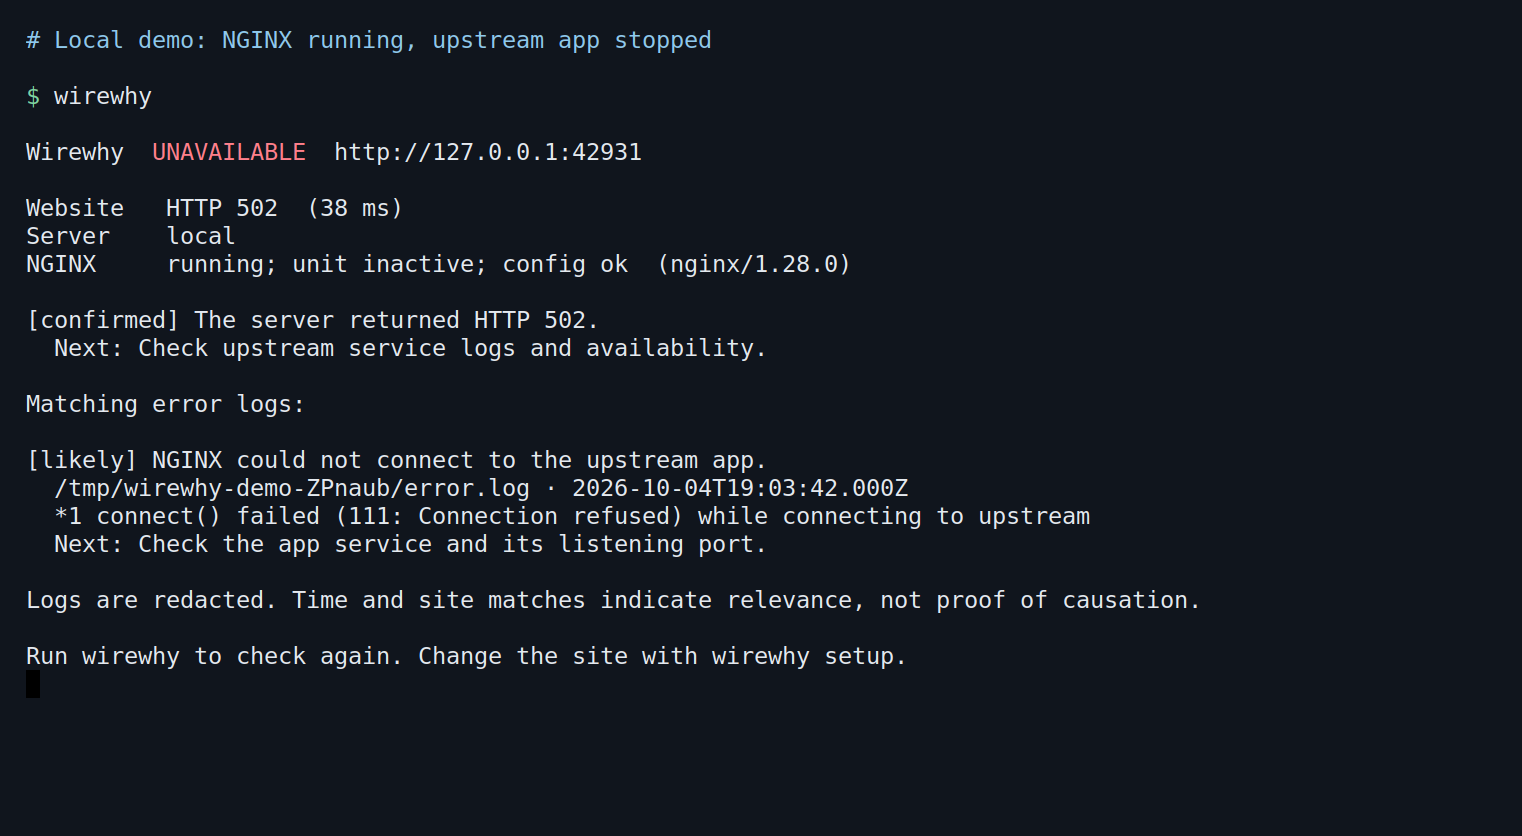
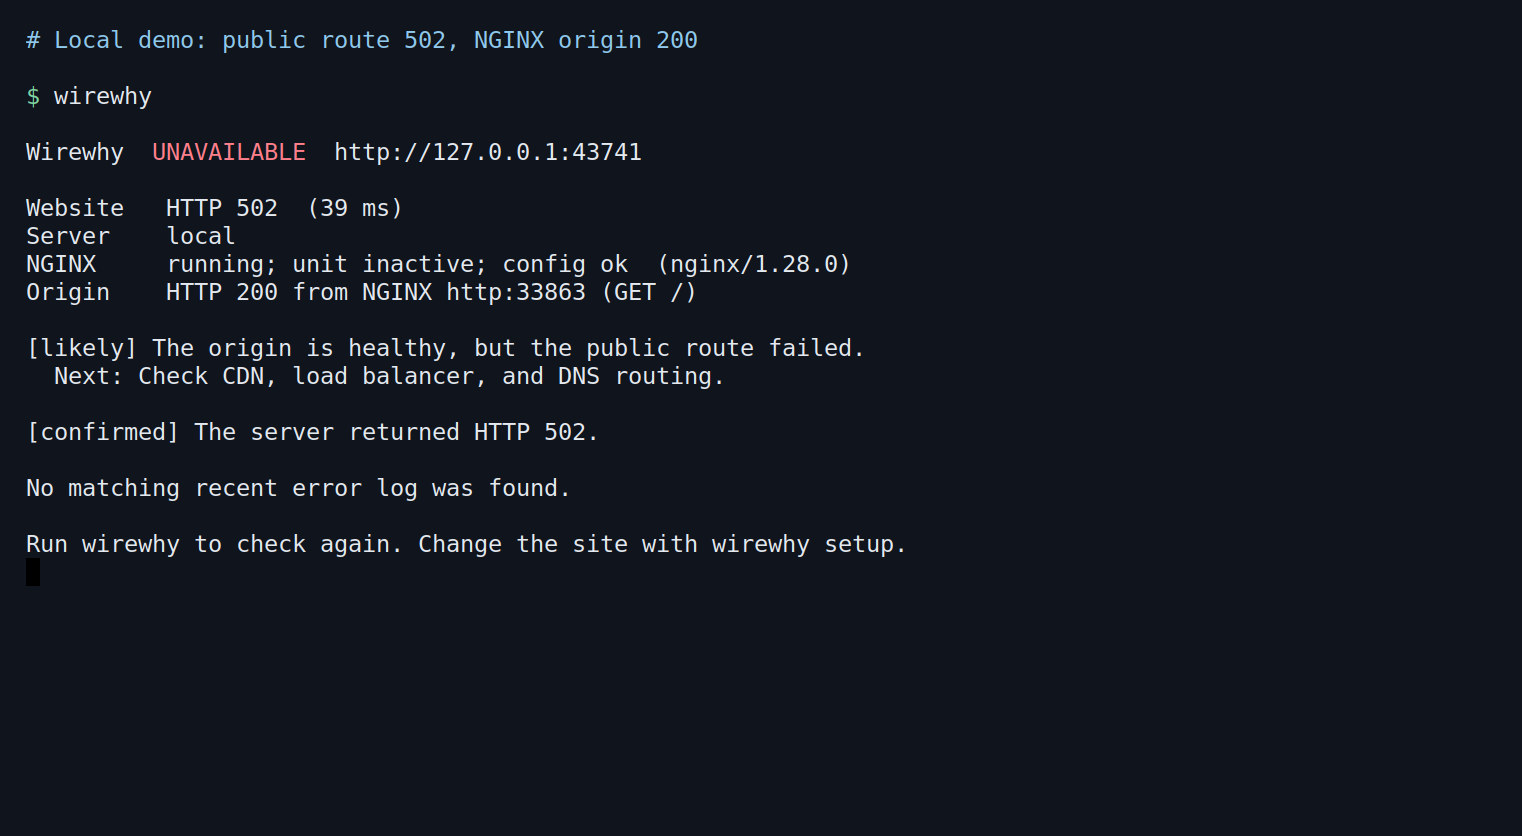
Add direct NGINX origin outage comparison

diff --git a/test/site.test.js b/test/site.test.js
@@ -48,6 +48,20 @@ test('text output highlights the matching NGINX error without repeated access-lo
   assert.match(output, /Connection refused/);
   assert.doesNotMatch(output, /diagnostic request|client:|private-path|192\.0\.2\.1/);
 });
+test('origin comparison leads the next step when public HTTP fails but NGINX is healthy', () => {
+  const report = {
+    availability: 'unavailable', outcome: 'failed', url: 'https://example.com', complete: true,
+    website: {request: {status: 502, durationMs: 43}, findings: [{confidence: 'confirmed', summary: 'The server returned HTTP 502.', nextSteps: ['Check the upstream service.']}]},
+    server: {location: 'production', nginx: {installed: true, process: 'running', service: 'active', config: 'ok', siteMatched: true}, origin: {checked: true, scheme: 'https', port: 443, status: 200}, app: null, issues: []},
+    logs: []
+  };
+  const output = formatSiteReport(report);
+  assert.match(output, /Website\s+HTTP 502/);
+  assert.match(output, /Origin\s+HTTP 200 from NGINX https:443 \(GET \/, TLS verified\)/);
+  assert.match(output, /The origin is healthy, but the public route failed/);
+  assert.match(output, /Check CDN, load balancer, and DNS routing/);
+  assert.doesNotMatch(output, /Check the upstream service/);
+});
 test('a saved site makes the bare command check immediately without prompting', async t => {
   const app = await server((req, res) => res.end());
   t.after(app.close);
@@ -186,4 +200,38 @@ test('real isolated NGINX outage exposes its actual upstream error log', { skip:
   assert.equal(matched.source, errorLog);
   assert.ok(matched.excerpt.includes('connect() failed'));
   assert.ok(readFileSync(errorLog, 'utf8').includes('Connection refused'));
+});
+
+test('origin check separates a failing public route from a healthy real NGINX origin', { skip: !process.env.WIREWHY_NGINX_BINARY, timeout: 20000 }, async t => {
+  const directory = mkdtempSync(join(tmpdir(), 'wirewhy-origin-nginx-'));
+  t.after(() => rmSync(directory, { recursive: true, force: true }));
+  const reserve = await server((req, res) => res.end());
+  const originPort = reserve.app.address().port;
+  await reserve.close();
+  const publicRoute = await server((req, res) => { res.writeHead(502); res.end('Bad gateway'); });
+  t.after(publicRoute.close);
+  const upstream = await server((req, res) => res.end('healthy origin'));
+  t.after(upstream.close);
+  const upstreamPort = upstream.app.address().port;
+  const configPath = join(directory, 'nginx.conf');
+  writeFileSync(configPath, `pid ${directory}/nginx.pid; error_log ${directory}/error.log; worker_processes 1; events { worker_connections 32; } http { client_body_temp_path ${directory}/body; proxy_temp_path ${directory}/proxy; fastcgi_temp_path ${directory}/fastcgi; uwsgi_temp_path ${directory}/uwsgi; scgi_temp_path ${directory}/scgi; access_log ${directory}/access.log; server { listen 127.0.0.1:${originPort}; server_name 127.0.0.1; location / { proxy_pass http://127.0.0.1:${upstreamPort}; } } }`);
+  const child = spawn(process.env.WIREWHY_NGINX_BINARY, ['-c', configPath, '-e', 'stderr', '-g', 'daemon off;'], { stdio: ['ignore', 'ignore', 'pipe'] });
+  let stderr = '';
+  child.stderr.on('data', data => stderr += data);
+  t.after(async () => { if (child.exitCode === null) { child.kill('SIGTERM'); await new Promise(resolve => child.once('close', resolve)); } });
+  let ready = false;
+  for (let i = 0; i < 30 && !ready; i++) {
+    try { ready = (await (await fetch(`http://127.0.0.1:${originPort}`)).text()) === 'healthy origin'; } catch { await delay(50); }
+  }
+  assert.ok(ready, stderr);
+  const bin = join(directory, 'bin'); mkdirSync(bin);
+  writeFileSync(join(bin, 'nginx'), `#!/usr/bin/env node\nconst r=require('node:child_process').spawnSync(process.env.WIREWHY_NGINX_BINARY,process.argv.slice(2),{stdio:'inherit'}); process.exit(r.status||0);\n`, { mode: 0o755 });
+  const url = new URL(publicRoute.url);
+  const env = { PATH: `${bin}:${process.env.PATH}`, WIREWHY_CONFIG: join(directory, 'none.json'), WIREWHY_NGINX_BINARY: process.env.WIREWHY_NGINX_BINARY };
+  const result = await run(['site', url.href, '--local', '--nginx-config', configPath], env);
+  assert.equal(result.code, 1, result.stderr);
+  assert.match(result.stdout, /Website\s+HTTP 502/);
+  assert.match(result.stdout, /Origin\s+HTTP 200/);
+  assert.match(result.stdout, /The origin is healthy, but the public route failed/);
+  assert.match(result.stdout, /Check CDN, load balancer, and DNS routing/);
 });

diff --git a/src/site.js b/src/site.js
@@ -26,12 +26,13 @@ async function inspectSite(input, options = {}) {
   let logs = { entries: [], issues: [] };
   if (options.ssh || options.local) {
     options.onProgress?.(availability === 'unavailable' || options.includeLogs ? 'Checking NGINX and recent site logs' : 'Checking NGINX health');
-    const raw = await collectServer(url, { ...options, collectLogs: availability === 'unavailable' || options.includeLogs });
+    const raw = await collectServer(url, { ...options, originCheck: availability === 'unavailable', originScheme: url.protocol, collectLogs: availability === 'unavailable' || options.includeLogs });
     logs = analyzeLogs(raw, url, probeId);
     server = {
       location: options.ssh || 'local',
       error: raw.error || null,
       nginx: raw.nginx ? { ...raw.nginx, configError: raw.nginx.configError ? redactLog(raw.nginx.configError) : null } : null,
+      origin: raw.origin || null,
       app: raw.app || null,
       issues: [...(raw.issues || []), ...logs.issues]
     };
@@ -64,10 +65,27 @@ function formatSiteReport(report, format = 'text', color = false) {
       if (report.server.app) lines.push(`App       ${report.server.app.service}: ${report.server.app.state}${report.server.app.discovered ? ' (discovered from the upstream port)' : ''}`);
       if (!nginx.siteMatched) lines.push('Site      No matching server_name found in the inspected config.');
     }
+    const origin = report.server.origin;
+    if (origin?.status !== undefined && origin?.status !== null) lines.push(`Origin    HTTP ${origin.status} from NGINX ${origin.scheme}:${origin.port} (GET /${origin.scheme === 'https' ? ', TLS verified' : ''})`);
+    else if (origin?.error) {
+      const detail = origin.error === 'ORIGIN_CERT_HOSTNAME' ? 'TLS certificate hostname mismatch'
+        : origin.error === 'ORIGIN_CERT_INVALID' ? 'TLS certificate is not trusted'
+          : origin.error === 'ORIGIN_TLS_FAILED' ? 'TLS handshake failed'
+            : origin.error === 'ORIGIN_TIMEOUT' ? 'Timed out'
+              : origin.error === 'ORIGIN_CONNECTION_REFUSED' ? 'Connection refused' : 'No HTTP response';
+      lines.push(`Origin    ${detail} via NGINX ${origin.scheme}:${origin.port}`);
+    } else if (origin && !origin.checked) lines.push(`Origin    Not checked: ${origin.reason}`);
+    if (origin?.status !== undefined && origin?.status !== null && report.availability === 'unavailable') {
+      lines.push('', origin.status < 400 ? '[likely] The origin is healthy, but the public route failed.'
+        : origin.status >= 500 ? `[likely] The origin also returned HTTP ${origin.status}.`
+          : `[possible] The origin answered HTTP ${origin.status} directly.`,
+      `  Next: ${origin.status < 400 ? 'Check CDN, load balancer, and DNS routing.' : 'Check origin access rules and NGINX/app logs.'}`);
+    }
   }
   for (const finding of report.website.findings) {
     lines.push('', `[${finding.confidence}] ${finding.summary}`);
-    if (finding.nextSteps[0]) lines.push(`  Next: ${finding.nextSteps[0]}`);
+    const originIsHealthy = report.server?.origin?.status < 400 && report.website.request.status >= 500;
+    if (finding.nextSteps[0] && !originIsHealthy) lines.push(`  Next: ${finding.nextSteps[0]}`);
   }
   if (report.logs.length) {
     const displayLogs = report.logs.filter(entry => entry.code !== 'http.probe' || report.logs.length === 1);

diff --git a/src/server.js b/src/server.js
@@ -20,7 +20,7 @@ function validateServerOptions(options = {}) {
 function collectServer(input, options = {}) {
   validateServerOptions(options);
   const url = new URL(String(input));
-  const payload = Buffer.from(JSON.stringify({ hostname: url.hostname.toLowerCase(), service: options.service, discoveredService: options.discoveredService, logs: options.logs, collectLogs: options.collectLogs, nginxConfig: options.nginxConfig })).toString('base64');
+  const payload = Buffer.from(JSON.stringify({ hostname: url.hostname.toLowerCase(), service: options.service, discoveredService: options.discoveredService, logs: options.logs, collectLogs: options.collectLogs, nginxConfig: options.nginxConfig, originCheck: options.originCheck, originScheme: options.originScheme, probeId: options.probeId })).toString('base64');
   const script = readFileSync(join(__dirname, 'server-collector.py'));
   let command;
   let args;

diff --git a/src/index.d.ts b/src/index.d.ts
@@ -91,6 +91,7 @@ export interface SiteReport {
     location: string;
     error: string | null;
     nginx: null | { installed: boolean; version: string | null; service: string; process: string; config: string; configError: string | null; siteMatched: boolean };
+    origin: null | { checked: boolean; reason?: string; scheme?: 'http' | 'https'; port?: number; status?: number | null; durationMs?: number; error?: string | null };
     app: null | { service: string; state: string; discovered: boolean };
     issues: string[];
   };

diff --git a/src/server-collector.py b/src/server-collector.py
@@ -2,14 +2,19 @@
 import base64
 import concurrent.futures
 import datetime
+import http.client
+import ipaddress
 import json
 import os
 import re
 import shlex
 import shutil
+import socket
+import ssl
 import stat
 import subprocess
 import sys
+import time
 from urllib.parse import urlsplit
 
 
@@ -89,6 +94,7 @@ def discover(text, host, prefix):
                  for directive in node["directives"] if directive[0] in ("error_log", "access_log")]
     logs = []
     upstreams = []
+    origin_listeners = []
     for node in matches:
         for kind in ("error_log", "access_log"):
             own = [directive for directive in node["directives"] if directive[0] == kind]
@@ -101,6 +107,13 @@ def discover(text, host, prefix):
                     continue
                 path = directive[1] if os.path.isabs(directive[1]) else os.path.join(prefix, directive[1])
                 logs.append({"path": path, "kind": "nginx-error" if kind == "error_log" else "nginx-access", "siteScoped": scoped})
+        listens = [directive[1:] for directive in node["directives"] if directive[0] == "listen" and len(directive) > 1]
+        if not listens:
+            listens = [["80"]]
+        for args in listens:
+            endpoint = parse_listener(args)
+            if endpoint and endpoint not in origin_listeners:
+                origin_listeners.append(endpoint)
     named = {node["args"][0]: [directive[1] for directive in node["directives"] if directive[0] == "server" and len(directive) > 1]
              for node in walk(tree) if node["name"] == "upstream" and node.get("args")}
     for node in matches:
@@ -110,7 +123,96 @@ def discover(text, host, prefix):
                     value = directive[1]
                     name = urlsplit(value).hostname if "://" in value else value
                     upstreams.extend(named.get(name, [value]))
-    return {"matched": bool(matches), "logs": logs, "upstreams": upstreams}
+    return {"matched": bool(matches), "logs": logs, "upstreams": upstreams, "originListeners": origin_listeners}
+
+
+def parse_listener(args):
+    if "udp" in args or "quic" in args:
+        return None
+    value = args[0]
+    if value.startswith("unix:"):
+        return None
+    address, port = "127.0.0.1", None
+    if value.startswith("[") and "]" in value:
+        address = value[1:value.index("]")]
+        suffix = value[value.index("]") + 1:]
+        port = suffix[1:] if suffix.startswith(":") else None
+    elif value.count(":") == 1:
+        host, candidate = value.rsplit(":", 1)
+        if candidate.isdigit():
+            address, port = host, candidate
+    elif value.isdigit():
+        port = value
+    if address in ("", "*", "0.0.0.0"):
+        address = "127.0.0.1"
+    elif address == "::":
+        address = "::1"
+    elif address == "localhost":
+        address = "127.0.0.1"
+    try:
+        if not ipaddress.ip_address(address).is_loopback:
+            return None
+    except ValueError:
+        return None
+    secure = "ssl" in args or port == "443"
+    port = int(port or ("443" if secure else "80"))
+    if not 1 <= port <= 65535:
+        return None
+    return {"address": address, "port": port, "scheme": "https" if secure else "http"}
+
+
+class OriginHTTPSConnection(http.client.HTTPSConnection):
+    def __init__(self, address, port, hostname, timeout):
+        super().__init__(address, port, timeout=timeout, context=ssl.create_default_context())
+        self.tls_hostname = hostname
+
+    def connect(self):
+        sock = socket.create_connection((self.host, self.port), self.timeout, self.source_address)
+        if self._tunnel_host:
+            self._tunnel()
+        self.sock = self._context.wrap_socket(sock, server_hostname=self.tls_hostname)
+
+
+def probe_origin(hostname, listeners, probe_id, prefer_tls):
+    if not listeners:
+        return {"checked": False, "reason": "No matching local NGINX listener was found."}
+    preferred_scheme = "https" if prefer_tls else "http"
+    candidates = sorted(listeners, key=lambda item: (item["scheme"] != preferred_scheme, item["address"] != "127.0.0.1"))[:4]
+    failure = None
+    failed_endpoint = candidates[0]
+    for endpoint in candidates:
+        started = time.monotonic()
+        connection = None
+        try:
+            if endpoint["scheme"] == "https":
+                connection = OriginHTTPSConnection(endpoint["address"], endpoint["port"], hostname, 3)
+            else:
+                connection = http.client.HTTPConnection(endpoint["address"], endpoint["port"], timeout=3)
+            connection.request("GET", "/", headers={"Host": hostname, "User-Agent": "Wirewhy origin check", "X-Wirewhy-Check": probe_id})
+            response = connection.getresponse()
+            response.read(65536)
+            return {"checked": True, "scheme": endpoint["scheme"], "port": endpoint["port"], "status": response.status,
+                    "durationMs": round((time.monotonic() - started) * 1000), "error": None}
+        except ssl.SSLCertVerificationError as error:
+            message = getattr(error, "verify_message", "").lower()
+            code = "ORIGIN_CERT_HOSTNAME" if "hostname" in message or "ip address mismatch" in message else "ORIGIN_CERT_INVALID"
+            return {"checked": True, "scheme": endpoint["scheme"], "port": endpoint["port"], "status": None,
+                    "durationMs": round((time.monotonic() - started) * 1000), "error": code}
+        except ssl.SSLError:
+            failure = "ORIGIN_TLS_FAILED"
+        except (socket.timeout, TimeoutError):
+            failure = "ORIGIN_TIMEOUT"
+        except OSError as error:
+            failure = "ORIGIN_CONNECTION_REFUSED" if error.errno in (111, 61, 10061) else "ORIGIN_UNREACHABLE"
+        except http.client.HTTPException:
+            failure = "ORIGIN_BAD_RESPONSE"
+        finally:
+            if connection:
+                connection.close()
+        failed_endpoint = endpoint
+    endpoint = failed_endpoint
+    return {"checked": True, "scheme": endpoint["scheme"], "port": endpoint["port"], "status": None,
+            "durationMs": 0, "error": failure or "ORIGIN_UNREACHABLE"}
 
 
 def tail_file(path):
@@ -183,6 +285,8 @@ def collect(options):
             prefix = match.group(1).strip("'\"")
     discovered = discover(config["stdout"], options["hostname"], prefix)
     output["nginx"]["siteMatched"] = discovered["matched"]
+    if options.get("originCheck"):
+        output["origin"] = probe_origin(options["hostname"], discovered["originListeners"], options.get("probeId", "wirewhy"), options.get("originScheme") == "https")
     service = options.get("service") or auto_service(discovered["upstreams"]) or options.get("discoveredService")
     if service:
         output["app"] = {"service": service, "state": state(command(["systemctl", "is-active", service])), "discovered": not bool(options.get("service"))}

diff --git a/test/collector_test.py b/test/collector_test.py
@@ -1,8 +1,11 @@
 import importlib.util
+from http.server import BaseHTTPRequestHandler, ThreadingHTTPServer
 import os
 from pathlib import Path
+import ssl
 import tempfile
 import unittest
+import threading
 from unittest.mock import patch
 
 spec = importlib.util.spec_from_file_location("collector", Path(__file__).resolve().parents[1] / "src/server-collector.py")
@@ -11,6 +14,66 @@ spec.loader.exec_module(collector)
 
 
 class CollectorTests(unittest.TestCase):
+    def test_origin_probe_uses_host_root_and_probe_id(self):
+        observed = {}
+        class Handler(BaseHTTPRequestHandler):
+            def do_GET(self):
+                observed.update(path=self.path, host=self.headers.get("Host"), probe=self.headers.get("X-Wirewhy-Check"))
+                self.send_response(200)
+                self.end_headers()
+                self.wfile.write(b"ok")
+            def log_message(self, *_args):
+                pass
+
+        server = ThreadingHTTPServer(("127.0.0.1", 0), Handler)
+        thread = threading.Thread(target=server.serve_forever, daemon=True)
+        thread.start()
+        try:
+            result = collector.probe_origin("example.com", [{"address": "127.0.0.1", "port": server.server_port, "scheme": "http"}], "wirewhy-test", False)
+        finally:
+            server.shutdown()
+            server.server_close()
+            thread.join()
+        self.assertEqual(result["status"], 200)
+        self.assertEqual(observed, {"path": "/", "host": "example.com", "probe": "wirewhy-test"})
+
+    def test_https_origin_probe_preserves_hostname_for_host_and_sni(self):
+        observed = {}
+        class Handler(BaseHTTPRequestHandler):
+            def do_GET(self):
+                observed["host"] = self.headers.get("Host")
+                self.send_response(200)
+                self.end_headers()
+                self.wfile.write(b"ok")
+            def log_message(self, *_args):
+                pass
+
+        server = ThreadingHTTPServer(("127.0.0.1", 0), Handler)
+        server_context = ssl.SSLContext(ssl.PROTOCOL_TLS_SERVER)
+        fixture = Path(__file__).parent / "fixtures"
+        server_context.load_cert_chain(fixture / "cert.pem", fixture / "key.pem")
+        server_context.set_servername_callback(lambda _socket, name, _context: observed.update(sni=name))
+        server.socket = server_context.wrap_socket(server.socket, server_side=True)
+        thread = threading.Thread(target=server.serve_forever, daemon=True)
+        thread.start()
+        try:
+            with patch.dict(os.environ, {"SSL_CERT_FILE": str(fixture / "cert.pem")}):
+                result = collector.probe_origin("localhost", [{"address": "127.0.0.1", "port": server.server_port, "scheme": "https"}], "wirewhy-test", True)
+        finally:
+            server.shutdown()
+            server.server_close()
+            thread.join()
+        self.assertEqual(result["status"], 200)
+        self.assertEqual(observed, {"sni": "localhost", "host": "localhost"})
+
+    def test_only_loopback_origin_listeners_are_probed(self):
+        self.assertEqual(collector.parse_listener(["127.0.0.1:8080"]), {"address": "127.0.0.1", "port": 8080, "scheme": "http"})
+        self.assertEqual(collector.parse_listener(["[::1]:443", "ssl"]), {"address": "::1", "port": 443, "scheme": "https"})
+        self.assertEqual(collector.parse_listener(["0.0.0.0:80"]), {"address": "127.0.0.1", "port": 80, "scheme": "http"})
+        self.assertIsNone(collector.parse_listener(["192.0.2.10:80"]))
+        self.assertIsNone(collector.parse_listener(["unix:/run/nginx.sock"]))
+        self.assertIsNone(collector.parse_listener(["443", "quic", "reuseport"]))
+
     def test_named_upstreams_and_location_log_inheritance(self):
         text = """
         error_log /var/log/nginx/error.log;

diff --git a/README.md b/README.md
@@ -2,9 +2,9 @@
 
 [![CI](https://github.com/Aaron-Savron/wirewhy/actions/workflows/ci.yml/badge.svg)](https://github.com/Aaron-Savron/wirewhy/actions/workflows/ci.yml)
 
-Check a website, inspect NGINX health, and find the relevant error logs when it fails.
+See whether a website outage is at the public edge or the NGINX origin, then find the relevant logs.
 
-![Wirewhy reports an NGINX 502 and highlights the matching upstream error.](assets/wirewhy-outage-demo.png)
+![Wirewhy compares a public HTTP 502 with a healthy HTTP 200 response from the NGINX origin.](assets/wirewhy-outage-demo.png)
 
 Node 20.3 or newer. Zero runtime dependencies. CommonJS and ESM, with TypeScript types.
 
@@ -27,7 +27,7 @@ wirewhy site https://example.com --local --service app.service
 wirewhy --format json --output report.json
 ```
 
-Site checks use GET and inspect up to 1 MB of the response. On a failed response, Wirewhy reads recent NGINX errors, access logs, and app journals. Entries are filtered by site, request, and time. Repeated upstream errors are collapsed.
+Site checks use GET and inspect up to 1 MB of the response. On failure, Wirewhy probes `/` directly against the matching NGINX listener on the server, preserving the site's Host header and TLS SNI. The probe does not send the URL path or query. Seeing a healthy origin beside a failed public response points you toward the CDN, load balancer, or DNS; a failed origin keeps the focus on NGINX and the app. The report then shows relevant logs.
 
 NGINX config supplies log paths and upstream ports, including named upstreams. Wirewhy discovers a systemd app service from a listening upstream port and remembers it for later crash checks. Use `--service app.service` or `--log /var/log/app.log` to specify one.
 

diff --git a/docs/api.md b/docs/api.md
@@ -6,6 +6,8 @@ Returns `Promise<SiteReport>`. Uses GET and reads up to 1 MB of the response und
 
 Options: `ssh` (alias or `user@host`), `sshConfig` (absolute path), `local`, `sudo`, `service` (systemd unit), `logs` (absolute app log paths), `nginxConfig` (absolute path), `includeLogs`, `timeoutMs`, `method`, and `signal`. `discoveredService` supplies a previous unit when the upstream is no longer listening; the CLI saves this automatically.
 
+On a failed public check, Wirewhy probes `/` directly against the matching NGINX listener on the configured server. It sends the site's hostname as `Host` and TLS SNI, then compares that response with the public result. Query strings and custom URL paths are not sent to this probe.
+
 `formatSiteReport(report, format?)` returns text, JSON, or Markdown. The report includes website status, NGINX process/unit/config health, app service status, and selected log excerpts. `complete: false` means server inspection was missing or incomplete.
 
 SSH checks stream a Python 3 collector to the server. No files or agent are installed. Config tests use NGINX’s `-T`; log reads are bounded to recent tail entries and ten-minute journals.

diff --git a/CHANGELOG.md b/CHANGELOG.md
@@ -1,5 +1,10 @@
 # Changelog
 
+## 0.3.0
+
+- Compare a failed public check with a direct NGINX origin request over SSH.
+- Preserve the origin Host header and TLS SNI without sending query strings or custom paths.
+
 ## 0.2.0
 
 - Make bare `wirewhy` check a saved site, with a first-run setup prompt.
